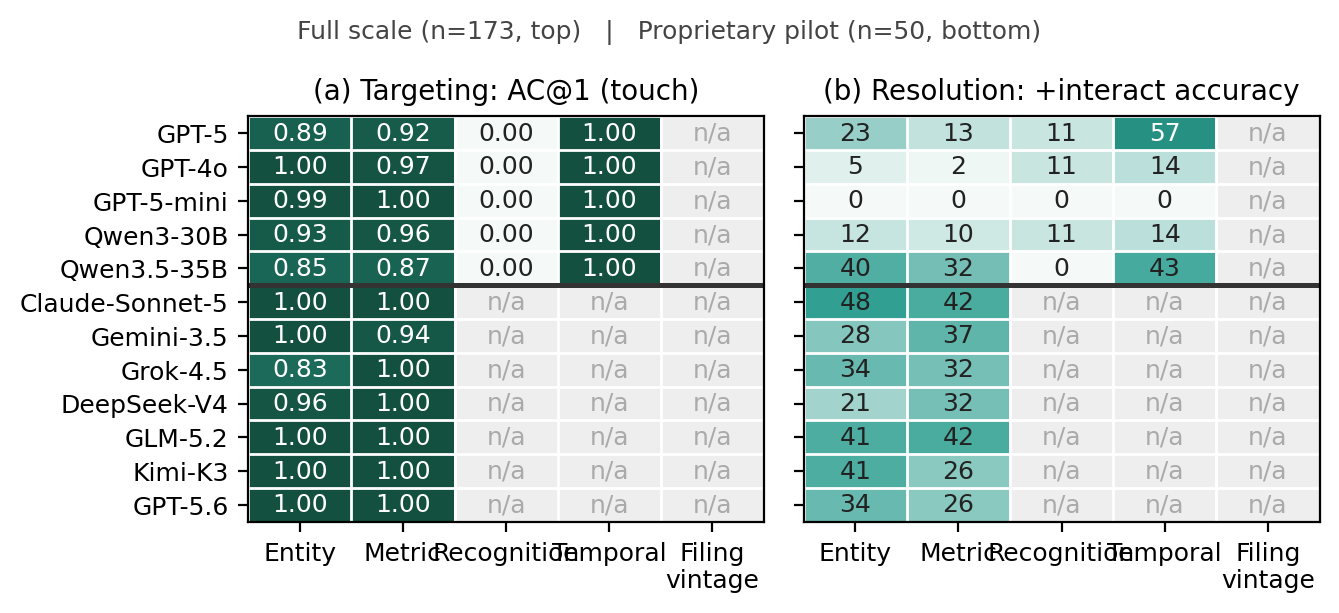
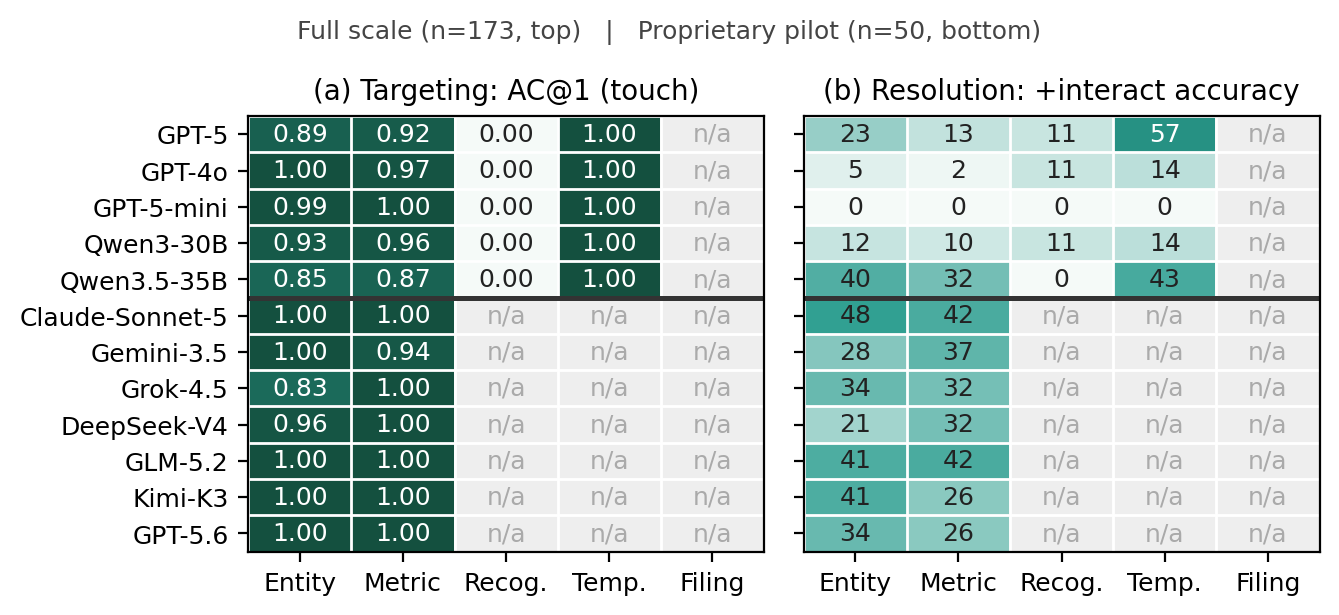
fig_axisperf: abbreviate x-labels (Recog./Temp./Filing) to stop overlap

diff --git a/scripts/plot_axis_performance.py b/scripts/plot_axis_performance.py
@@ -25,7 +25,7 @@ matplotlib.rcParams["ps.fonttype"] = 42
 from matplotlib.colors import LinearSegmentedColormap
 
 AXES = ["entity_scope", "metric_definition", "recognition_policy", "temporal_scope", "filing_vintage"]
-ALABEL = ["Entity", "Metric", "Recognition", "Temporal", "Filing\nvintage"]
+ALABEL = ["Entity", "Metric", "Recog.", "Temp.", "Filing"]
 
 FULL = ["gpt-5", "gpt-4o", "gpt-5-mini", "qwen3-30b-a3b", "qwen3p5-35b-a3b"]
 FULL_L = ["GPT-5", "GPT-4o", "GPT-5-mini", "Qwen3-30B", "Qwen3.5-35B"]
